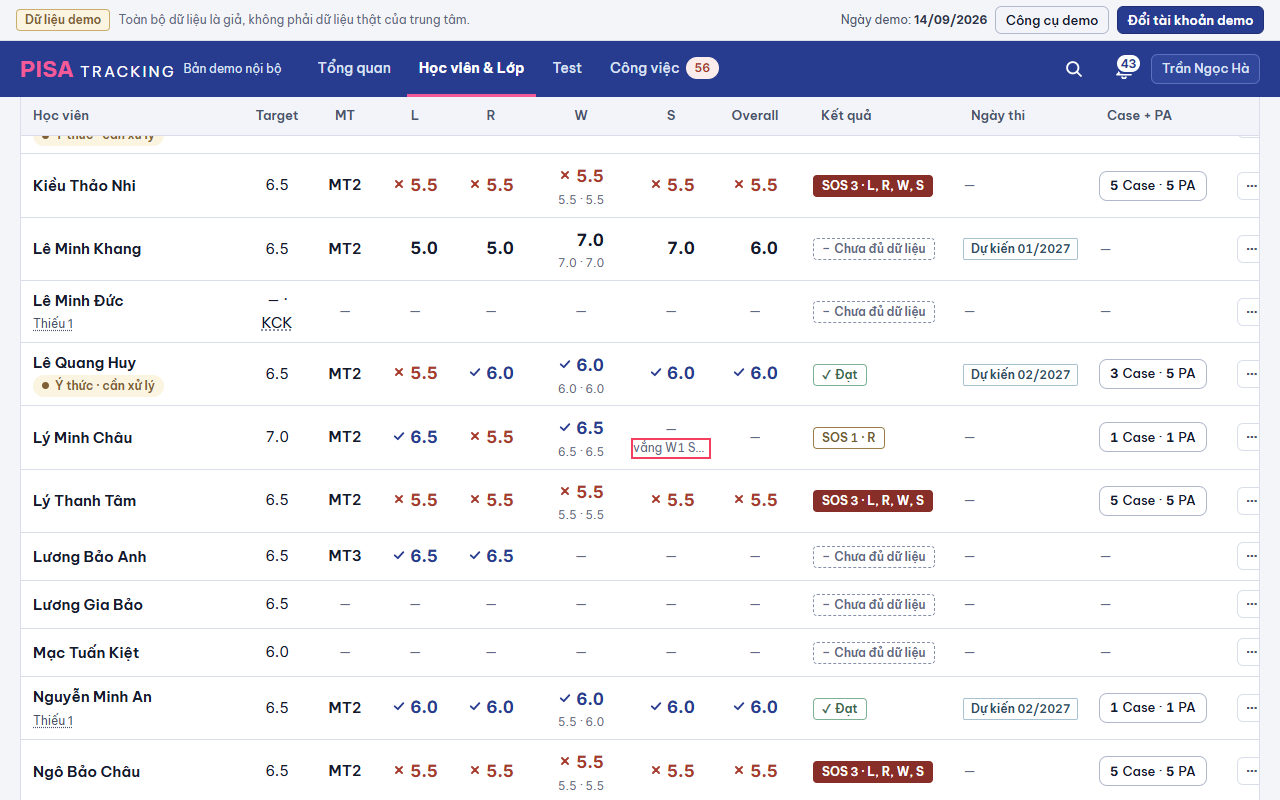
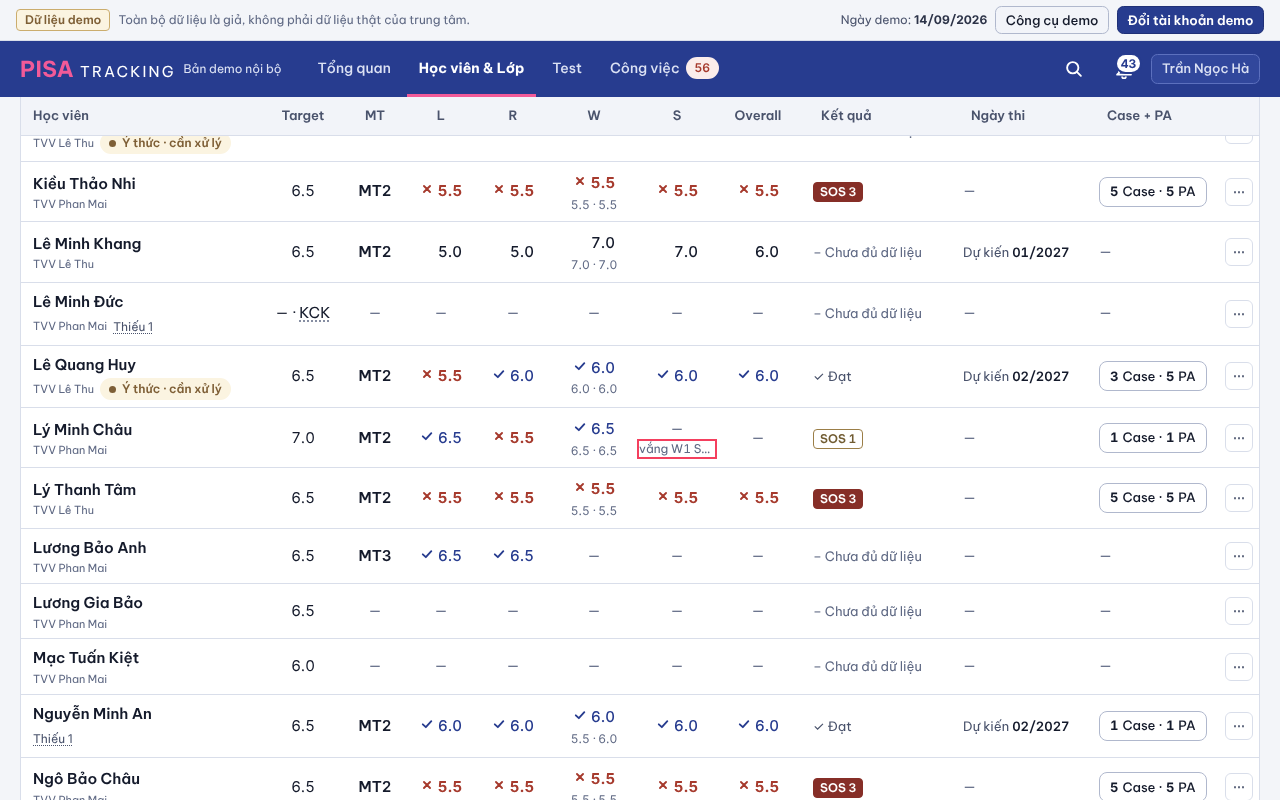
BANG-EM-GON: nghiệm thu ảnh cặp + khop-khac; bề rộng cột giữ tổng cũ (1280 không tràn); [XM-BE-1] thẻ 375
Claude-Session: https://claude.ai/code/session_01QgWEDEDxfx4RaR5GKntewJ

diff --git a/web/src/modules/classes/BangHoSoLop.tsx b/web/src/modules/classes/BangHoSoLop.tsx
@@ -53,15 +53,15 @@ const ketQua = (r: Hang): 'sos' | 'dat' | 'thieu' | 'khac' => {
 
 /* UI-HO-SO-LOP (chủ SP 22/10, 10 mục 8): GIỮ Target (mockup `ho-so-lop.html`), cột Phụ huynh của TVV / CX (OV-10b) và ⋯ thao tác từng dòng (V4). */
 const cotCua = (theoVai: boolean): DinhNghiaCot[] => [
-  /* BANG-EM-GON: bề rộng theo mockup v10 `#be` (tên 300); TVV / CX thêm cột Phụ huynh → tên giữ 220 để bảng không tràn 1440. */
-  { key: 'ten', nhan: t('Học viên'), kieu: 'ten', rong: theoVai ? 220 : 300 },
+  /* BANG-EM-GON: bề rộng theo tỉ lệ mockup v10 `#be`, tổng giữ như cũ để 1280 không tràn (tên 240 thay 300; S 80 cho "vắng W1 SEP"); TVV / CX thêm cột Phụ huynh → tên 220. */
+  { key: 'ten', nhan: t('Học viên'), kieu: 'ten', rong: theoVai ? 220 : 240 },
   { key: 'target', nhan: 'Target', kieu: 'so', rong: 84 },
   { key: 'mt', nhan: 'MT', kieu: 'so', rong: 60 },
   { key: 'l', nhan: 'L', kieu: 'diem', rong: 72 }, { key: 'r', nhan: 'R', kieu: 'diem', rong: 72 },
-  { key: 'w', nhan: 'W', goiY: t('W = (W1 + 2 × W2) / 3 — dòng phụ: W1 · W2'), kieu: 'diem', rong: 90 }, { key: 's', nhan: 'S', kieu: 'diem', rong: 72 },
+  { key: 'w', nhan: 'W', goiY: t('W = (W1 + 2 × W2) / 3 — dòng phụ: W1 · W2'), kieu: 'diem', rong: 90 }, { key: 's', nhan: 'S', kieu: 'diem', rong: 80 },
   { key: 'ovr', nhan: 'Overall', kieu: 'diem', rong: 86 },
-  { key: 'kq', nhan: t('Kết quả'), kieu: 'chip', rong: 150 }, { key: 'thi', nhan: t('Ngày thi'), kieu: 'chip', rong: 150 },
-  { key: 'cp', nhan: 'Case + PA', kieu: 'chip', rong: 126 },
+  { key: 'kq', nhan: t('Kết quả'), kieu: 'chip', rong: 150 }, { key: 'thi', nhan: t('Ngày thi'), kieu: 'chip', rong: 136 },
+  { key: 'cp', nhan: 'Case + PA', kieu: 'chip', rong: 122 },
   ...(theoVai ? [{ key: 'ph', nhan: t('Phụ huynh'), kieu: 'chip' as const, rong: 170 }] : []),
   { key: 'nut', nhan: '', kieu: 'nut' },
 ];

diff --git a/docs/anh/bang-em-gon/khop-khac.md b/docs/anh/bang-em-gon/khop-khac.md
@@ -1,0 +1,50 @@
+# BANG-EM-GON — khớp / khác mockup `thiet-ke/v10/panel-thong-tin.html` `#be`
+
+Chỉnh của chủ SP / PTA thắng mockup (plan.md mục 4 "30/10 (tối)" + "PTA duyệt" Q1): điểm kỹ năng **✓ / ✗ trước số** (không ▼); kỹ năng đạt **✓ cùng màu Overall đạt** (`text-kq-bang`), hụt **✗ + `text-kq-duoi` đậm 700**; TVV **11 px** (mockup 12, ngoại lệ G13 đã ghi `DESIGN.md`).
+Ảnh cặp (trái mockup, phải web): `be-1440-gvcn.png` (GVCN 7) · `be-1440-ql.png` (QL 2) · `be-1440-tvv.png` (TVV 23, lớp 10 — cột Phụ huynh) · `be-375-gvcn.png` (375 sáng).
+Cách chụp: `KHUNG_BASE=http://localhost:5611 node scripts/anh-cap.mjs thiet-ke/v10/panel-thong-tin.html "#be figure >> nth=0" hoc-vien/lop/3 7 1440 docs/anh/bang-em-gon/be-1440-gvcn.png` (375: `nth=1`, bề rộng 375).
+
+## Bảng truy vết khung → thành phần → ảnh
+
+| Khung / thành phần mockup | Thành phần web | Ảnh | KHỚP / KHÁC |
+|---|---|---|---|
+| `#be` 0 · cột Học viên · Target · MT · L R W S · Overall · Kết quả · Ngày thi · Case + PA · ⋯ | `BangHoSoLop` `cotCua` (bề rộng theo tỉ lệ mockup) | `be-1440-*` | KHỚP. KHÁC nhỏ: tên 240 (mockup 300) để tổng bề rộng giữ như cũ — 1280 không tràn (`do-khung` lop-ft 1280 xanh); S 80 cho "vắng W1 SEP" |
+| ô điểm `.dg-o` 15 px / 500, hụt 700 đỏ | `ODiem kieu="gon" chiToHut` (kiểu mới `gon`) | `be-1440-*` | KHỚP cỡ / độ đậm. KHÁC theo chỉnh chủ SP: ✗ thay ▼; đạt có ✓ màu Overall đạt |
+| Overall "✓ 6.0" / "✗ 5.5" | cùng `ODiem gon chiToHut` | `be-1440-*` | KHỚP |
+| dòng phụ W1 · W2 / "vắng …" | `phuCua` (GIỮ) | `be-1440-*` | KHỚP |
+| Kết quả: chip SOS nhỏ không "· R, W" (`.cs.nho` cao 20, đệm 6) | `ChipSos hienKyNang={false} nho` (prop mới `nho`) | `be-1440-*` | KHỚP; bấm chip vẫn mở hộp Vì sao SOS (đếm kỹ năng) |
+| "✓ Đạt" · "– Chưa đủ dữ liệu" chữ 13 px | `OKetQua` chữ `text-dim` / `text-faint` (bỏ `NhanKq` viền) | `be-1440-*` | KHỚP; lý do "chưa đủ" giữ ở tooltip + sr-only (Đ4) |
+| Ngày thi "Thi **17/11**" · "Dự kiến **02/2027**" | `OLichThi` chữ 13 px (bỏ chip `NhanLich`); "Đã thi" chữ | `be-1440-*` | KHỚP |
+| TVV dưới tên, chip việc cùng hàng | `.tvv` 11 px `text-faint` + `nhanPhu` (mới vào · Thiếu · Ý thức) cùng hàng | `be-1440-*` | KHỚP (11 px theo chủ SP) |
+| "mới vào W1 OCT" chữ 12 px mờ | `nhanPhu`: `mới vào {tuần hôm nay}` (bỏ chip `MoiVao` ở bảng này) | `be-1440-gvcn` (Phạm Khánh Linh) | KHỚP |
+| `#be` 1 · thẻ 375: tên + TVV · chip SOS nhỏ · ⋯ | `theEm` đầu thẻ | `be-375-gvcn` | KHỚP |
+| `#be` 1 · thẻ 375: dòng điểm `DongDiem` (lượt · 4 kỹ năng · Overall) | **GIỮ** lưới 5 ô L R W S Overall (v8 `.the-em`, chủ SP duyệt 29/10) với ô `gon chiToHut` | `be-375-gvcn` | **KHÁC [XM-BE-1]**: `DongDiem` không có W1 · W2, "vắng …" và không bấm được W / S → điểm thành phần (thao tác cũ phải GIỮ). Ký hiệu ✓ / ✗ / màu đã theo luật mới |
+| `#be` 1 · chân thẻ Target · ngày thi · Case + PA | chân thẻ GIỮ (Target · MT · ngày thi · Phụ huynh · Case + PA) | `be-375-gvcn` | KHỚP (thêm MT link lượt — GIỮ) |
+| khung "1440 · TRƯỚC" | — | — | BỎ (chỉ để so) |
+| Cách xem · lọc Tất cả / SOS / Chưa đủ · "Lượt của từng HV" · Chọn nhiều · MT link lượt · Case + PA mở dưới hàng · ⋯ · Nhập điểm / + Case đầu trang | như nay | `be-1440-*` | GIỮ |
+| ô "Không đủ bộ môn" (P8, ngoài mockup) | `NhanKq thieu` | — | GIỮ |
+
+Tỉ lệ KHỚP: 14 / 15 dòng thành phần (≈ 93 %, ≥ 90 %); khác duy nhất là dòng điểm thẻ 375 [XM-BE-1] (giữ thao tác).
+
+## Thao tác TRƯỚC → SAU — Bảng em hồ sơ lớp
+
+| Thao tác | Trước | Sau |
+|---|---|---|
+| Lọc Tất cả · SOS · Chưa đủ dữ liệu | có | GIỮ (bấm thử GVCN / QL / CX: SOS 11) |
+| Chọn nhiều (QL) | có | GIỮ (chỉ QL thấy) |
+| Bấm chip SOS → hộp Vì sao SOS | có | GIỮ (chip nhỏ, hộp vẫn liệt kê kỹ năng) |
+| Bấm W / S → điểm thành phần (popover) | có | GIỮ (1440 + 375) |
+| MT → hồ sơ lượt | có | GIỮ |
+| Case + PA → mở Case dưới hàng · Ghi KQ PA · Sửa · Lịch sử | có | GIỮ |
+| ⋯ từng dòng (4 mục MENU-DONG) | có | GIỮ (GVCN, QL, TVV, CX) |
+| Cột Phụ huynh (TVV / CX) | có | GIỮ |
+| Tên → hồ sơ HV (Trước / Sau theo bảng) | có | GIỮ |
+| Xem TVV của em | không có trên bảng | MỚI: chữ nhỏ dưới tên (mọi vai; em chưa có TVV không ghi gì) |
+
+Không mất thao tác nào.
+
+## Kiểm
+
+- `do-khung.mjs lop-ft` + `lop-thuong` (gồm `do-bang`) 1440 / 1280 / 375 tối + sáng: **Không lỗi** (ngoài miễn sẵn có).
+- Bấm thử (Playwright) GVCN 7, QL 2, CX 24 lớp 3 · TVV 23 lớp 10, 1440 + 375: lọc SOS, hộp SOS, Case dưới hàng, popover W, ⋯ 4 mục, Chọn nhiều — đạt, không lỗi trang.
+- Turso: 0 câu thêm (TVV đã có trong `classRoster`, `tvv_ten` đọc cùng câu).

diff --git a/plan.md b/plan.md
@@ -263,6 +263,7 @@ Còn treo của các PR cũ: PH, GVb G5 ("Nhắc tất cả" #263), DH → ✅ H
 - **LECH-CACH-CHAM (một nguồn):** em đổi lớp FT ↔ lớp thường: `standingFor` chấm theo lộ trình (`mode`), `evaluateAttemptRow` theo chương trình lớp của lượt → ✓ / ✗ từng kỹ năng ở panel (diemTuEval) có thể khác hồ sơ / SOS. Lỗi có từ trước, #733 phép M1 tạm bỏ qua em đó (in số em bỏ qua). Sửa: một hàm chọn cách chấm cho lượt (theo chương trình lớp của lượt) dùng cả hai đường.
 - **TAB-A11Y:** tab Chưa đạt · Đạt (panel số, `SoLieu.tsx`) và các `role="tab"` khác chưa có `aria-controls`, chưa đi bằng phím ← → (có từ trước; nguồn rà #736). Sửa ở thành phần tab chung một lần.
 - **QUYEN-THEO-CN:** quyền sửa liên hệ (`coONhapLienHe`) và một số cờ Lưu trữ xét theo VAI toàn tài khoản, không theo chi nhánh (`luuTru.ts:122`, `students.ts:776`): QL chi nhánh A kiêm GVCN chi nhánh B vẫn đổi được liên hệ em ở B (web cũng vậy). Luật cũ — hỏi chủ SP có cần xét vai theo chi nhánh của em không. (Nguồn: rà #746.)
+- **[XM-BE-1] BANG-EM-GON thẻ 375:** mockup v10 `#be` 375 vẽ dòng điểm `DongDiem` (lượt · 4 kỹ năng · Overall); PR giữ lưới 5 ô v8 (ô ✓ / ✗ mới) vì `DongDiem` mất W1 · W2, "vắng …" và bấm W / S → điểm thành phần. Hỏi chủ SP: giữ lưới hay thêm hai thứ đó vào `DongDiem`.
 - **Q2 napBai theo kỳ:** cần cột / chỉ mục chi nhánh cho lịch kỹ năng (đã ghi kế hoạch TOC-DO › TRANG-LON).
 
 ### 30/10 (tối) — chủ SP duyệt mockup PANEL-V10 #723 (KHÔNG mockup lại; chỉnh ghi ở đây, kế hoạch code phải theo)
